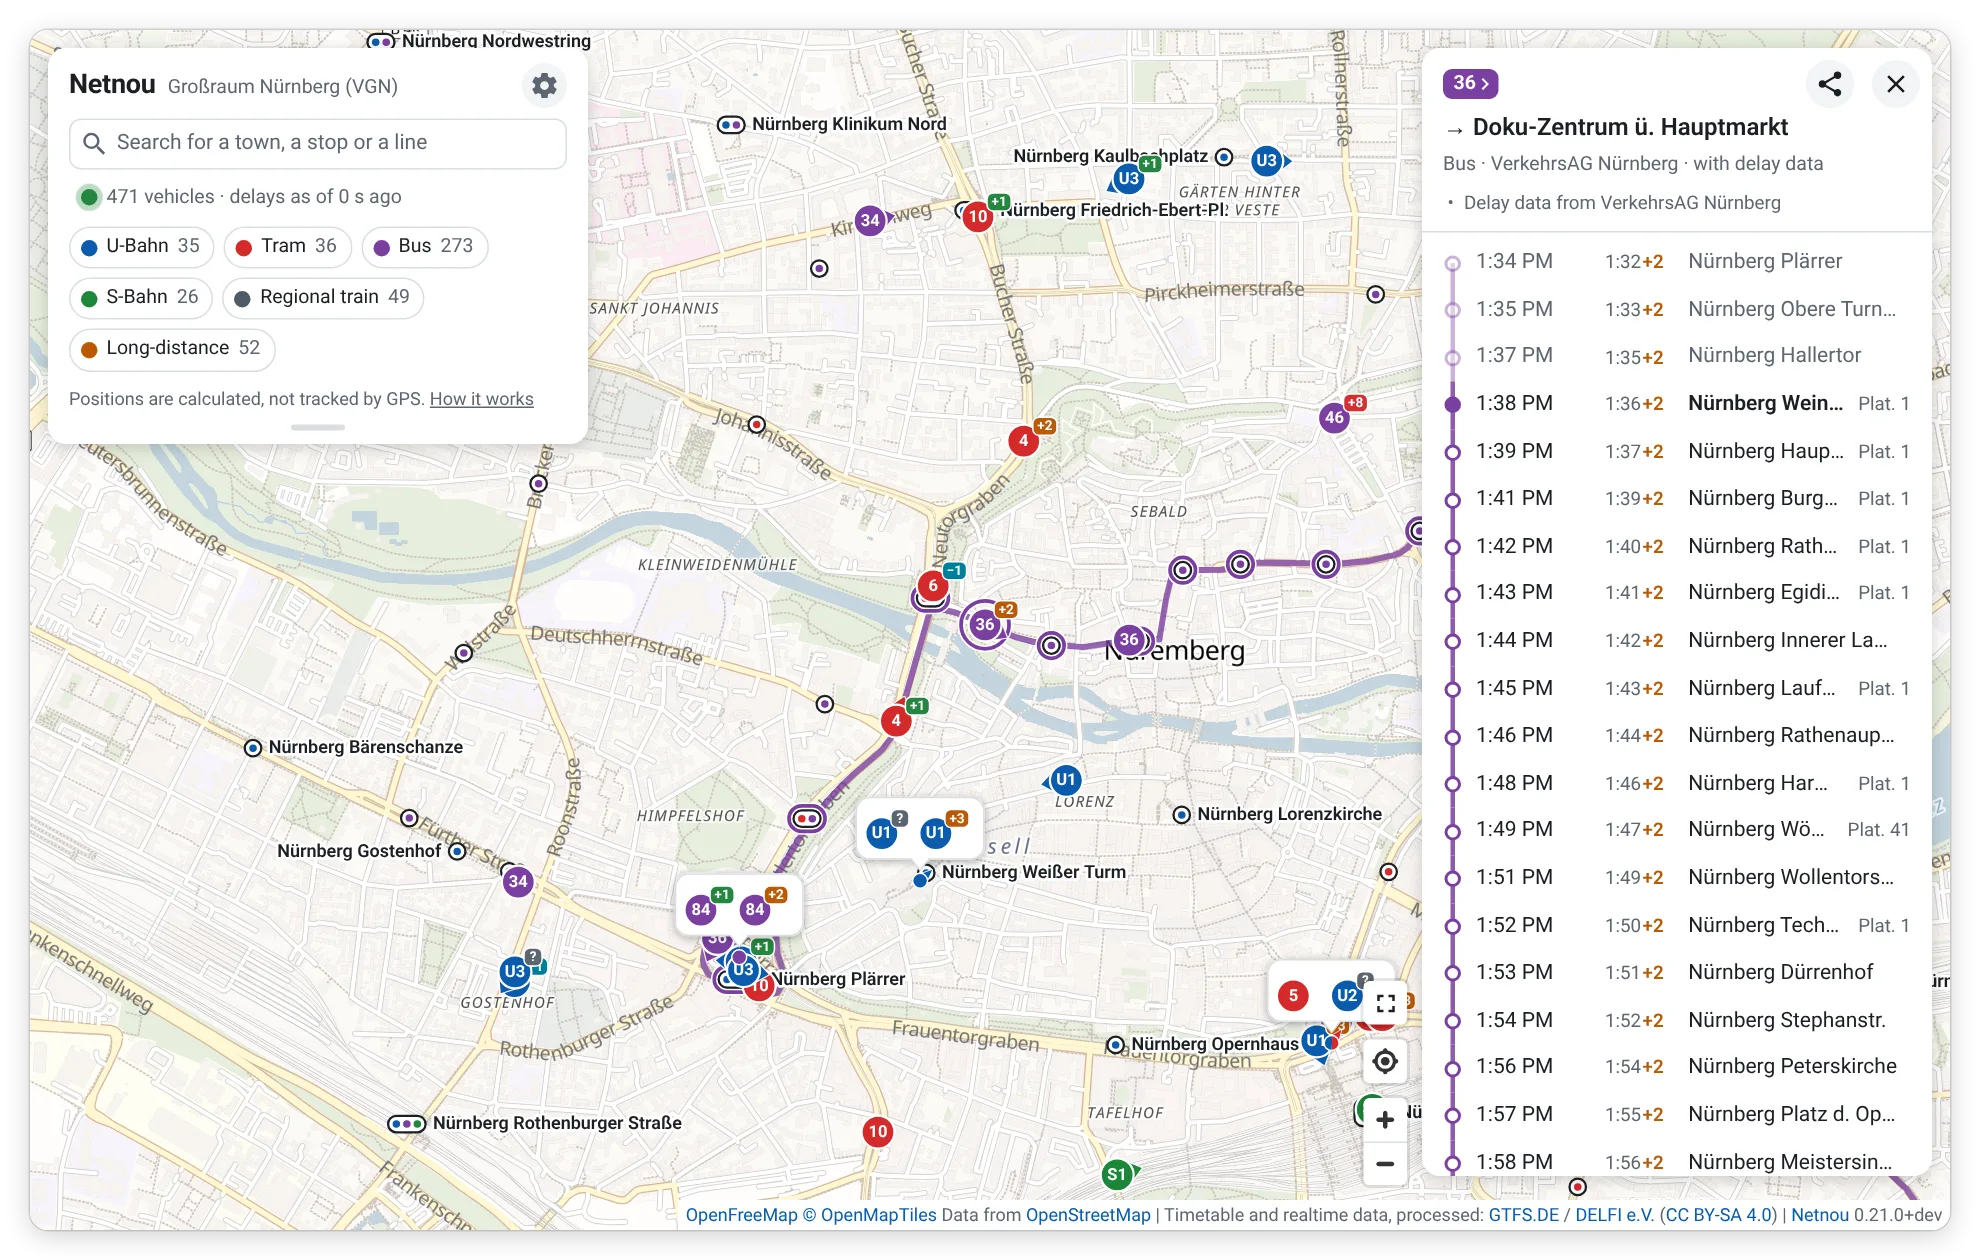
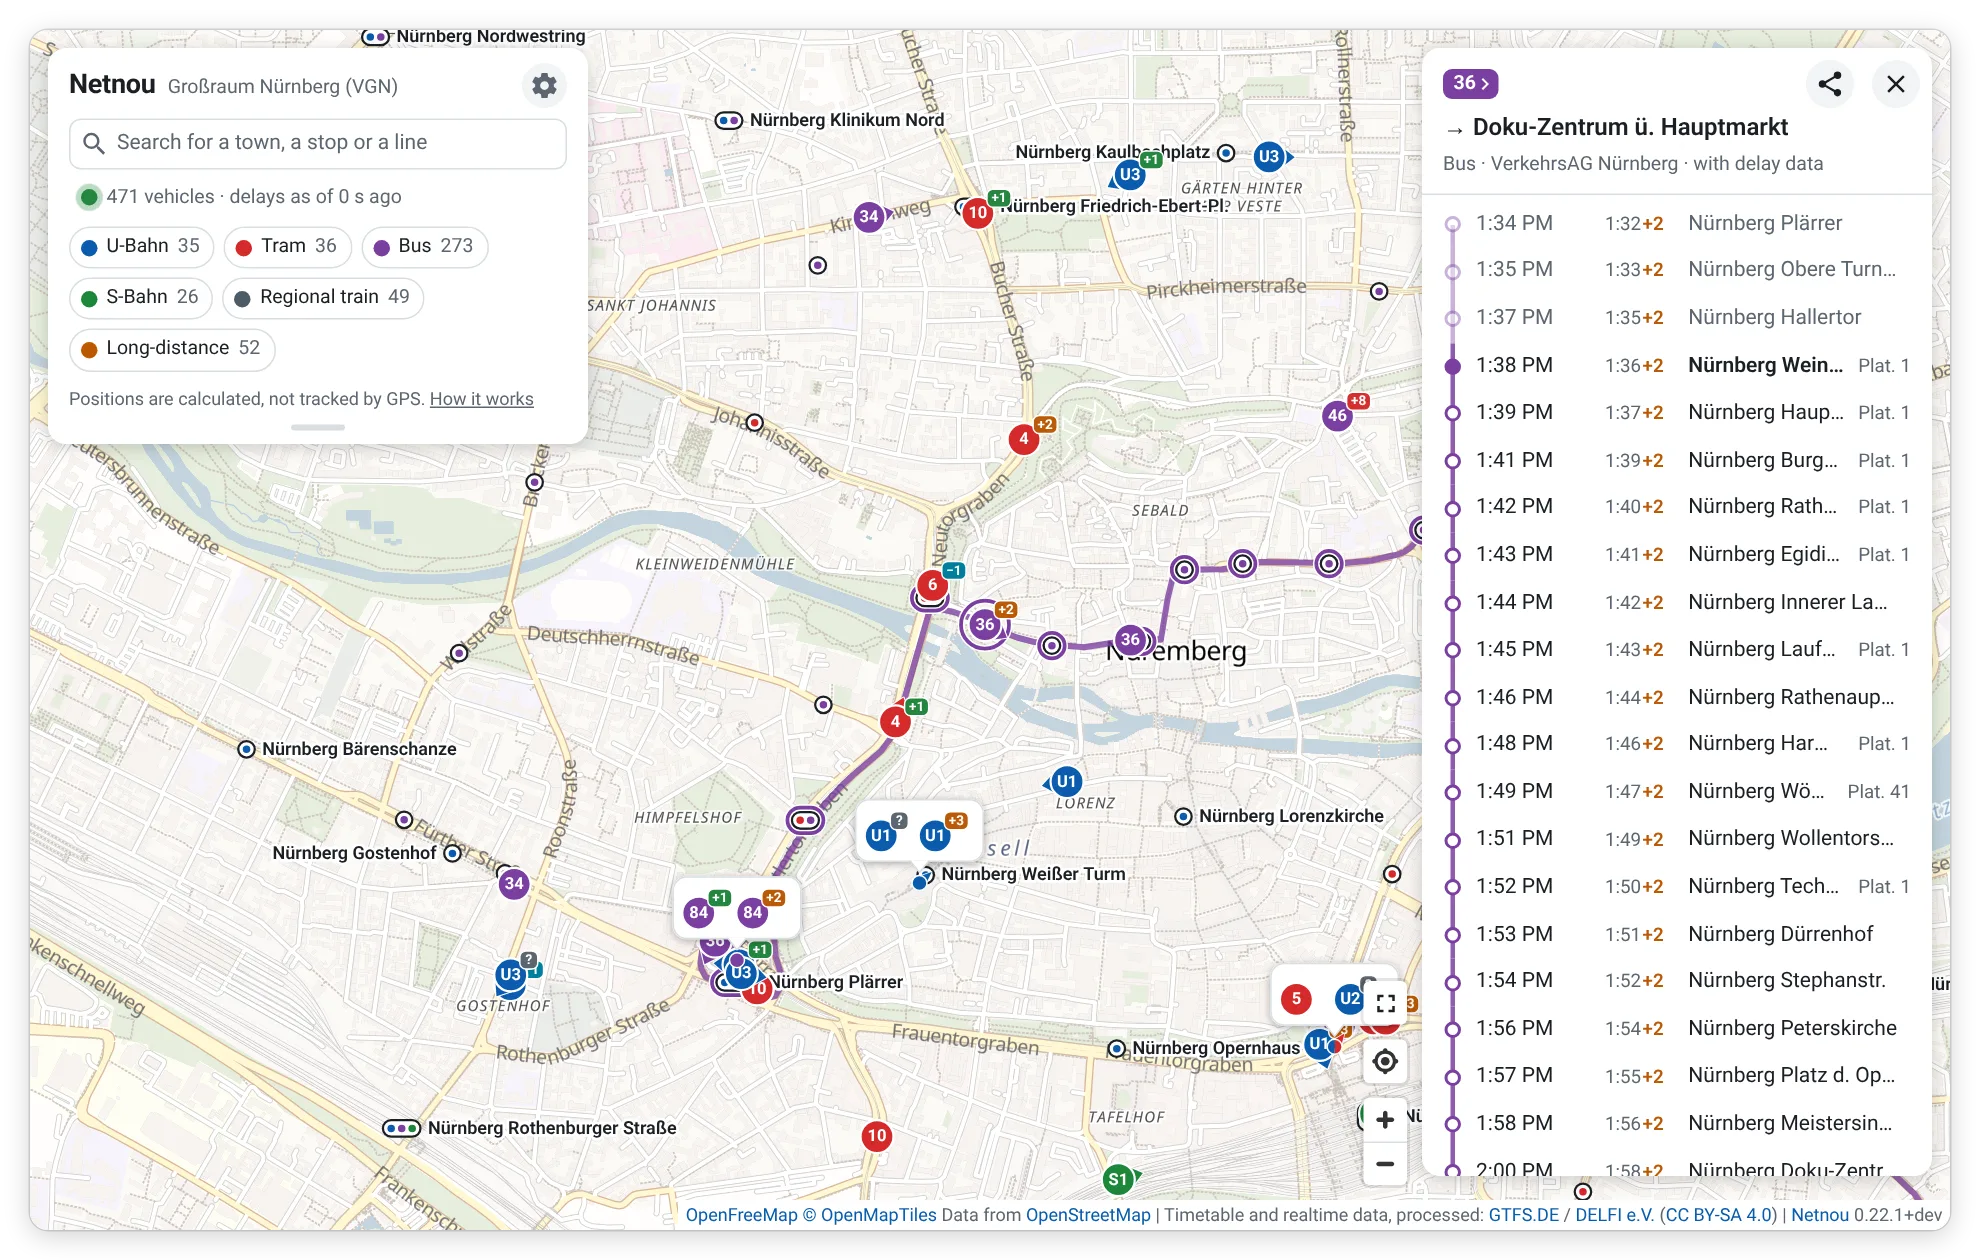
fix(page): a folded card is its title row alone, and a trip names its delay data once (#292)
Folded, the header card kept the line that positions are calculated, not
tracked by GPS, beside its title row: on a phone above every stop, line
and trip that was open. It now has two heights, the title row with its
grip and all of it; unfolded, the line is there as before.

The head of a trip said "with delay data" in the line below its name and
"Delay data from VerkehrsAG Nürnberg" below that. Where the delay data
come from the trip's own operator, which the line below the name names
already (every trip on the data of the README pictures), only that line
says so now; where another provides them, only the note does. Who
provides them is all the realtime feed says per trip: the timetable is
another's, so the texts stay those of the delay data.

The pictures of the READMEs are taken again.

diff --git a/public/app.js b/public/app.js
@@ -2476,8 +2476,8 @@ let panelTimer = null;
 // (what had the keyboard focus when the details opened: see closePanel)
 let panelOpener = null;
 
-// The header card folds (data-fold, style.css) to its title row and the line
-// that positions are calculated. Its grip, a row at its foot, folds and
+// The header card folds (data-fold, style.css) to its title row: it has two
+// heights, that and all of it. Its grip, a row at its foot, folds and
 // unfolds it, with a tap or a pull. On a phone it folds by itself while the
 // details of a stop, a line or a trip are open, so that the map has the room
 // between it and them; unfolded there, it folds again when the map or the
@@ -3367,8 +3367,12 @@ function renderTrip(trip, scrollToNext) {
   const list = el('ul', { class: 'rows' }, rows);
   list.style.setProperty('--badge-color', `var(--mode-${trip.mode})`);
   const mode = t(`mode.${DRAW_ORDER.includes(trip.mode) ? trip.mode : 'other'}`);
-  // Who provides the realtime data shown leads the notes, which are feed content and stay as they are.
-  const source = trip.realtime && trip.source ? [t('trip.source', { source: trip.source })] : [];
+  // Who provides the realtime data shown leads the notes, which are feed
+  // content and stay as they are – where that is another than the operator
+  // named in the line below the name. Of its operator's own, that line says
+  // "with delay data": once, not twice.
+  const othersData = Boolean(trip.realtime && trip.source && trip.source !== trip.agency);
+  const source = othersData ? [t('trip.source', { source: trip.source })] : [];
   // The badge leads to the line, whichever way the trip was chosen (#147),
   // with a sign in it: a finger cannot rest on it to find out.
   const line = { name: trip.line, mode: trip.mode, agency: trip.agency, at: trip.lineAt };
@@ -3379,7 +3383,7 @@ function renderTrip(trip, scrollToNext) {
     [
       el('div', { class: 'panel-head' }, [
         el('h1', {}, [toLine, el('span', { text: `→ ${to}` })]),
-        el('p', { class: 'sub', text: [mode, trip.agency, trip.realtime ? t('trip.realtime') : t('trip.scheduleOnly')].filter(Boolean).join(' · ') }),
+        el('p', { class: 'sub', text: [mode, trip.agency, othersData ? null : trip.realtime ? t('trip.realtime') : t('trip.scheduleOnly')].filter(Boolean).join(' · ') }),
         notesList(trip.notes, source, trip.cancelled ? t('trip.cancelled') : null),
       ]),
     ],

diff --git a/public/style.css b/public/style.css
@@ -184,9 +184,8 @@ button { font: inherit; color: inherit; }
 .settings-open:hover, .settings-open[aria-expanded="true"], .display-toggle:hover { color: var(--text); }
 /* The grip of the header card: a row at its foot with a pill across, as the
    details have one at their head, and part of the card. A tap or a pull
-   folds the card to its title row and the line that positions are
-   calculated, and unfolds it (app.js); on a phone it folds by itself while
-   details are open. The eye is there only to leave display mode.
+   folds the card to its title row and unfolds it (app.js); on a phone it
+   folds by itself while details are open. The eye is there only to leave display mode.
    For a finger it reaches from 8 px below the line above it (the link "How
    it works" ends there) to 40 px below that: the row in the card, and under
    the pill a tab of 160 px over the map. The card is as high as without it,
@@ -215,11 +214,11 @@ button { font: inherit; color: inherit; }
 .controls.sized .card-grip { position: absolute; left: 0; bottom: 0; width: 100%; margin: 0; }
 .controls.dragging { transition: none; }
 :root[data-board] .card-grip, :root[data-display] .card-grip, :root:not([data-display]) .display-toggle { display: none; }
-:root[data-fold]:not([data-board]) .controls > :not(.title, .status, .bubble, .hint, .card-grip),
+:root[data-fold]:not([data-board]) .controls > :not(.title, .status, .bubble, .card-grip),
 :root[data-fold]:not([data-board]) .status:not([data-state="outage"], [data-state="error"]) { display: none; }
 :root[data-fold]:not([data-board]) .search-open,
 :root[data-fold]:not([data-board]) .search-close { display: grid; }
-:root[data-fold]:not([data-board]) .controls.searching :is(.title, .hint) { display: none; }
+:root[data-fold]:not([data-board]) .controls.searching .title { display: none; }
 :root[data-fold]:not([data-board]) .controls.searching .search { display: flex; }
 
 /* The settings: a small box that hangs at the gear, with a tip that points to

diff --git a/public/index.html b/public/index.html
@@ -162,7 +162,7 @@
          treats personal data. The server writes them in here (NETNOU_LINKS in
          docs/configuration.md); without any, this stays hidden. -->
     <nav class="links" id="links" aria-label="About this service" data-i18n-aria-label="links.label" hidden></nav>
-    <!-- The grip of the card: folds it to its title row and the line above, and unfolds it (see "the header card folds" in app.js). -->
+    <!-- The grip of the card: folds it to its title row, and unfolds it (see "the header card folds" in app.js). -->
     <button type="button" class="card-grip" id="card-grip" aria-expanded="true" aria-controls="controls" aria-label="Fold or unfold the controls" data-i18n-aria-label="controls.fold" title="Fold or unfold the controls" data-i18n-title="controls.fold" data-icon="mdiChevronUp"></button>
   </header>
 
